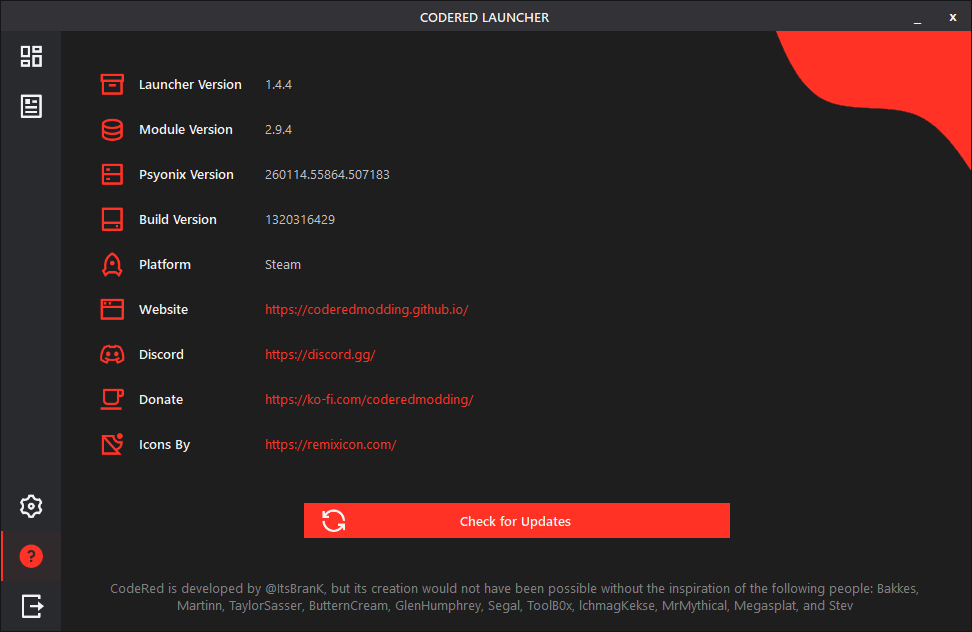
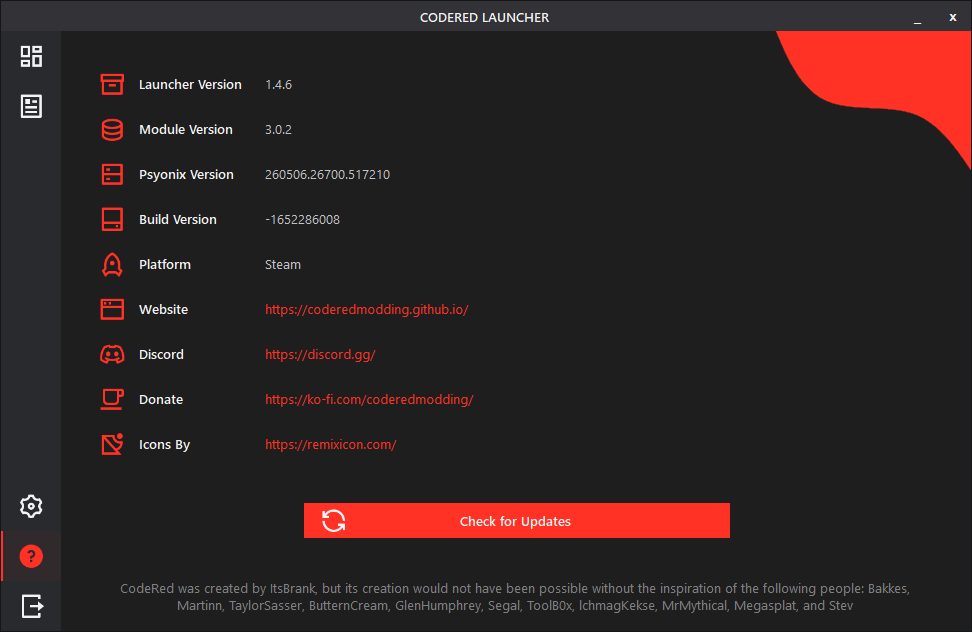
Updated preview images.

diff --git a/README.md b/README.md
@@ -7,7 +7,7 @@ The CodeRed Launcher is used to inject CodeRed into Rocket League, view news abo
 
 **2.** Must have at least 4GB of vram and 8GB of system ram.
 
-**3.** Must have the [**.NET 9.0**](<https://dotnet.microsoft.com/en-us/download/dotnet/9.0>) runtime installed to use the launcher.
+**3.** Must have the [**.NET 10.0**](<https://dotnet.microsoft.com/en-us/download/dotnet/9.0>) runtime installed to use the launcher.
 
 ## 📦 Download
 ### If this is your first time using CodeRed, you can [click this link](https://github.com/CodeRedModding/CodeRed-Launcher/releases/latest/download/CodeRedLauncher.zip) to download the latest version of the installer!